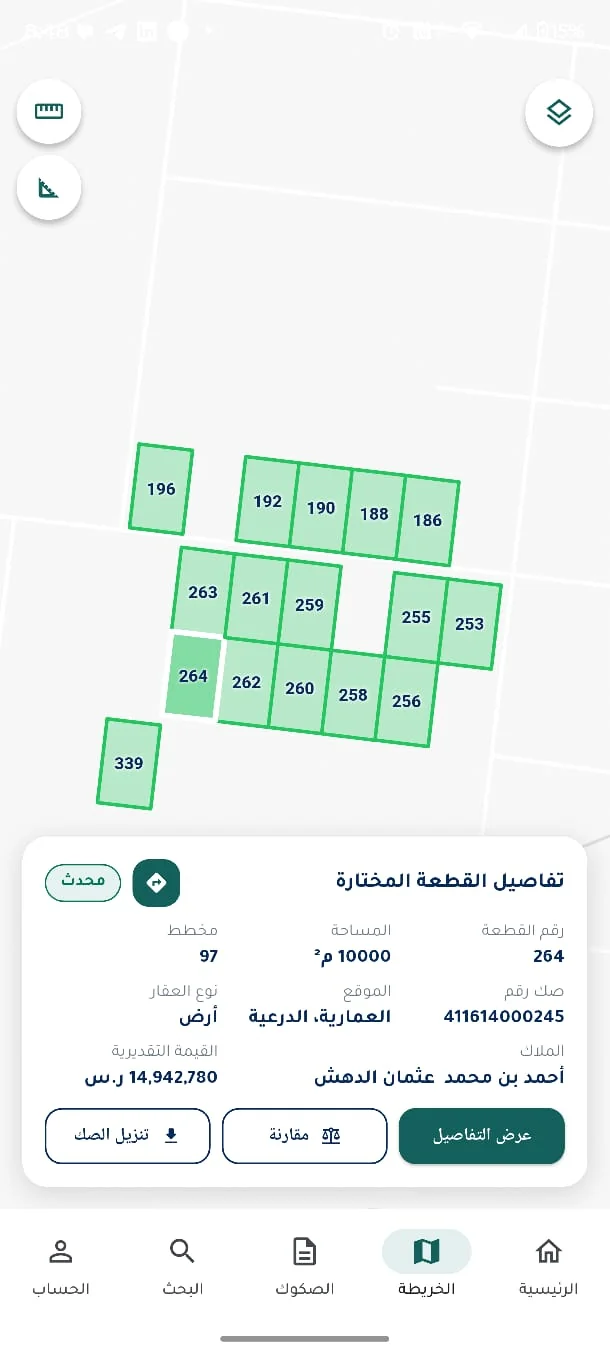
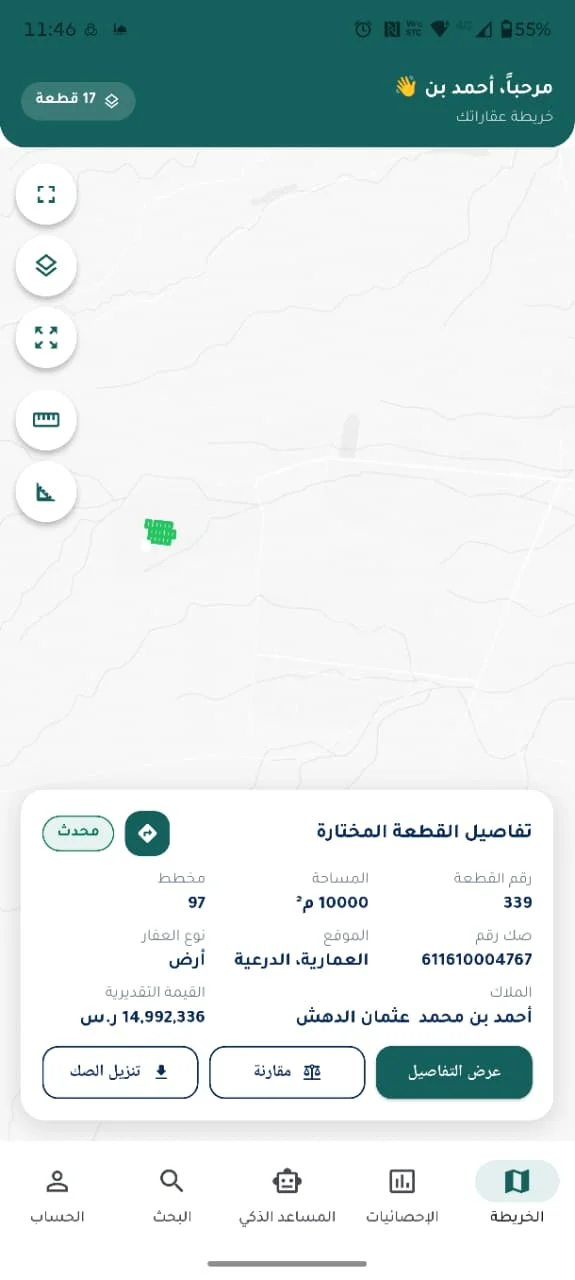
enhance land page

diff --git a/lang/ar/landing.php b/lang/ar/landing.php
@@ -129,35 +129,45 @@ return [
     'tour_goto' => 'انتقل إلى :title',
     'tour_of' => ':current من :total',
 
-    'tour_home_title' => 'محفظتك كلها في شاشة واحدة',
-    'tour_home_text' => 'القيمة التقديرية لأصولك، عدد عقاراتك ومساحتها الإجمالية، '
-        .'والصكوك المحدّثة والقديمة — محسوبة لحظياً من بياناتك، لا من جدول تحدّثه بنفسك.',
-    'tour_home_alt' => 'الشاشة الرئيسية في التطبيق تعرض القيمة التقديرية للأصول ومؤشرات المحفظة',
+    'tour_map_title' => 'أصولك كلها على خريطة واحدة',
+    'tour_map_text' => 'قطعك بأرقامها على الخريطة، واضغط أي قطعة ليظهر ملخّصها: المساحة، '
+        .'المخطط، رقم الصك والقيمة التقديرية — مع تنزيل الصك أو المقارنة من البطاقة نفسها.',
+    'tour_map_alt' => 'خريطة عقارات المالك مع بطاقة ملخّص القطعة المختارة',
 
-    'tour_parcels_title' => 'كل عقار بملفه الكامل',
-    'tour_parcels_text' => 'ابحث برقم القطعة أو الصك أو المخطط، وصفِّ القائمة حسب حالة الصك: '
-        .'محدّث، قديم، أو بدون صك.',
-    'tour_parcels_alt' => 'قائمة العقارات في التطبيق مع البحث وعوامل التصفية',
+    'tour_stats_title' => 'محفظتك بالأرقام في شاشة واحدة',
+    'tour_stats_text' => 'القيمة التقديرية لأصولك ومتوسط سعر المتر، وعدد العقارات والمساحة '
+        .'الإجمالية والصكوك المحدّثة والقديمة — محسوبة لحظياً من بياناتك، لا من جدول تحدّثه بنفسك.',
+    'tour_stats_alt' => 'صفحة الإحصائيات تعرض القيمة التقديرية للأصول وبطاقات مؤشرات المحفظة',
 
-    'tour_deeds_title' => 'سجل صكوكك كاملاً',
-    'tour_deeds_text' => 'كل صك برقمه وتاريخ إصداره ومساحته ونوعه، وتفتح صورة الصك '
-        .'أو تنتقل إلى قطعته على الخريطة بضغطة.',
-    'tour_deeds_alt' => 'سجل الصكوك في التطبيق مع بطاقات الصكوك وأزرار عرض الصك والقطعة',
+    'tour_charts_title' => 'توزيع أصولك حسب المدينة والحي',
+    'tour_charts_text' => 'رسوم توزيع القطع على المدن والأحياء والمناطق، وأربعة اختصارات '
+        .'للوصول السريع: العقارات، مقارنة القطع، الطلبات، والصكوك.',
+    'tour_charts_alt' => 'رسوم توزيع القطع حسب المدن والأحياء والمناطق مع أزرار الوصول السريع',
 
     'tour_detail_title' => 'القطعة بحدودها وأبعادها',
-    'tour_detail_text' => 'حدود القطعة على الخريطة بأطوال أضلاعها، وبياناتها كاملة: المساحة، '
-        .'القيمة التقديرية، رقم المخطط، المعرف الجغرافي، ونوع التعامل.',
-    'tour_detail_alt' => 'شاشة تفاصيل القطعة تعرض حدودها وأبعادها وبياناتها',
+    'tour_detail_text' => 'شكل القطعة بأطوال أضلاعها، وسجلها كاملاً: المساحة، القيمة التقديرية '
+        .'وسعر المتر، رقم المخطط، المعرف الجغرافي، ونوع التعامل وطريقة التحديد.',
+    'tour_detail_alt' => 'شاشة تفاصيل القطعة تعرض شكلها وأبعادها وبياناتها',
 
-    'tour_owners_title' => 'الملّاك وطلبات التعديل',
-    'tour_owners_text' => 'أسماء ملّاك القطعة وصكوكها المرتبطة، وزرّ يرفع طلب تعديل '
-        .'يمرّ بمسار اعتماد ويُسجَّل في سجل التدقيق.',
-    'tour_owners_alt' => 'شاشة القطعة تعرض الملّاك والصكوك المرتبطة وزر طلب التعديل',
+    'tour_survey_title' => 'الحدود والقرار المساحي والمستندات',
+    'tour_survey_text' => 'حدود القطعة الأربعة بأطوالها وجيرانها، والقرار المساحي بمصدره '
+        .'وتاريخه، والصك مرفقاً بصيغة PDF جاهزاً للتنزيل.',
+    'tour_survey_alt' => 'شاشة القطعة تعرض الحدود والأبعاد والقرار المساحي والمستندات',
 
-    'tour_map_title' => 'أصولك على خريطة واحدة',
-    'tour_map_text' => 'قطعك كلها على الخريطة بأرقامها. اختر أي قطعة لترى ملخّصها، '
-        .'وقِس المسافات والمساحات، ونزّل الصك من مكانه.',
-    'tour_map_alt' => 'الخريطة في التطبيق تعرض القطع بأرقامها مع ملخّص القطعة المختارة',
+    'tour_search_title' => 'ابحث كما تحفظ أرضك',
+    'tour_search_text' => 'أربعة أوضاع للبحث في ممتلكاتك: رقم الصك، رقم القطعة، المخطط، '
+        .'أو اسم المالك — والنتيجة تفتح على القطعة مباشرة.',
+    'tour_search_alt' => 'شاشة البحث في التطبيق بأوضاع رقم الصك ورقم القطعة والمخطط واسم المالك',
+
+    'tour_assistant_title' => 'المساعد العقاري الذكي — قريباً',
+    'tour_assistant_text' => 'سؤال عن أي قطعة بلغتك العادية، وملخّص فوري لمحفظتك، '
+        .'وتنبيهات على الصكوك التي تحتاج انتباهك.',
+    'tour_assistant_alt' => 'شاشة المساعد العقاري الذكي في التطبيق مع إشارة قريباً',
+
+    'tour_account_title' => 'حسابك وإعداداتك',
+    'tour_account_text' => 'ملف المالك بأرقامه، وتبديل اللغة بين العربية والإنجليزية، '
+        .'والمساعدة والدعم وسياسة الخصوصية وشروط الاستخدام في مكان واحد.',
+    'tour_account_alt' => 'شاشة الحساب تعرض ملف المالك وإحصاءاته وإعدادات التطبيق',
 
     // ── Trust ───────────────────────────────────────────────────
     'trust_eyebrow' => 'الأمان والحوكمة',

diff --git a/lang/en/landing.php b/lang/en/landing.php
@@ -133,36 +133,48 @@ return [
     'tour_goto' => 'Go to :title',
     'tour_of' => ':current of :total',
 
-    'tour_home_title' => 'The whole portfolio on one screen',
-    'tour_home_text' => 'Estimated value of the assets, how many properties and how much land, '
-        .'which deeds are current and which have gone stale — worked out from the data itself, '
-        .'not from a sheet someone keeps up by hand.',
-    'tour_home_alt' => 'The app home screen showing estimated asset value and portfolio figures',
+    'tour_map_title' => 'Every asset on a single map',
+    'tour_map_text' => 'Parcels on the map by number. Tap one and its summary opens: area, plan, '
+        .'deed number and estimated value — with the deed download and the comparison on the '
+        .'same card.',
+    'tour_map_alt' => 'The owner map in the app with the summary card of the selected parcel',
 
-    'tour_parcels_title' => 'Every property, with its full file',
-    'tour_parcels_text' => 'Search by parcel, deed or plan number, and filter the list by deed '
-        .'status: current, stale, or no deed at all.',
-    'tour_parcels_alt' => 'The property list in the app with search and status filters',
+    'tour_stats_title' => 'The portfolio in figures, on one screen',
+    'tour_stats_text' => 'Estimated value of the assets and the average price per square metre, '
+        .'how many properties and how much land, which deeds are current and which have gone '
+        .'stale — worked out from the data itself, not from a sheet someone keeps by hand.',
+    'tour_stats_alt' => 'The statistics screen showing estimated asset value and portfolio cards',
 
-    'tour_deeds_title' => 'The complete deed register',
-    'tour_deeds_text' => 'Each deed with its number, issue date, area and type — open the scanned '
-        .'deed or jump to its parcel on the map in one tap.',
-    'tour_deeds_alt' => 'The deed register in the app, with cards and buttons to view deed or parcel',
+    'tour_charts_title' => 'Assets broken down by city and district',
+    'tour_charts_text' => 'Parcels distributed across cities, districts and regions, with four '
+        .'shortcuts to hand: properties, parcel comparison, requests and deeds.',
+    'tour_charts_alt' => 'Charts of parcels by city, district and region with the quick access row',
 
     'tour_detail_title' => 'The parcel, with its boundary and dimensions',
-    'tour_detail_text' => 'The boundary drawn on the map with edge lengths, and the full record: '
-        .'area, estimated value, plan number, geographic identifier and transaction type.',
-    'tour_detail_alt' => 'The parcel detail screen showing its boundary, dimensions and record',
+    'tour_detail_text' => 'The parcel drawn with the length of every edge, and the full record: '
+        .'area, estimated value and price per metre, plan number, geographic identifier, '
+        .'transaction type and how the boundary was fixed.',
+    'tour_detail_alt' => 'The parcel detail screen showing its shape, dimensions and record',
 
-    'tour_owners_title' => 'Owners and change requests',
-    'tour_owners_text' => 'The parcel’s owners and the deeds attached to it, and a button that '
-        .'files a change request — one that follows an approval path and lands in the audit trail.',
-    'tour_owners_alt' => 'The parcel screen showing owners, attached deeds and the change request button',
+    'tour_survey_title' => 'Boundaries, survey decision and documents',
+    'tour_survey_text' => 'All four boundaries with their lengths and neighbours, the survey '
+        .'decision with its source and date, and the deed attached as a PDF ready to download.',
+    'tour_survey_alt' => 'The parcel screen showing boundaries, survey decision and documents',
 
-    'tour_map_title' => 'Your assets on a single map',
-    'tour_map_text' => 'Every parcel on the map by number. Tap one for its summary, measure '
-        .'distances and areas, and download the deed from where it sits.',
-    'tour_map_alt' => 'The app map showing numbered parcels and a summary of the selected one',
+    'tour_search_title' => 'Search the way you know your land',
+    'tour_search_text' => 'Four ways to search your holdings: deed number, parcel number, plan, '
+        .'or owner name — and the result opens straight onto the parcel.',
+    'tour_search_alt' => 'The search screen with deed number, parcel number, plan and owner tabs',
+
+    'tour_assistant_title' => 'The smart property assistant — coming soon',
+    'tour_assistant_text' => 'Ask about any parcel in plain language, get an instant read on the '
+        .'portfolio, and be told which deeds need attention.',
+    'tour_assistant_alt' => 'The smart property assistant screen in the app, marked coming soon',
+
+    'tour_account_title' => 'The account and its settings',
+    'tour_account_text' => 'The owner profile with its figures, the switch between Arabic and '
+        .'English, and help, privacy policy and terms of use in one place.',
+    'tour_account_alt' => 'The account screen showing the owner profile, figures and app settings',
 
     // ── Trust ───────────────────────────────────────────────────
     'trust_eyebrow' => 'Security and governance',

diff --git a/resources/views/landing/sections/app.blade.php b/resources/views/landing/sections/app.blade.php
@@ -9,12 +9,14 @@
      * compression artefacts at seven times the weight.
      */
     $slides = [
-        ['image' => 'app-home.webp',          'key' => 'home'],
-        ['image' => 'app-parcels.webp',       'key' => 'parcels'],
-        ['image' => 'app-deeds.webp',         'key' => 'deeds'],
-        ['image' => 'app-parcel-detail.webp', 'key' => 'detail'],
-        ['image' => 'app-parcel-owners.webp', 'key' => 'owners'],
         ['image' => 'app-map.webp',           'key' => 'map'],
+        ['image' => 'app-stats.webp',         'key' => 'stats'],
+        ['image' => 'app-charts.webp',        'key' => 'charts'],
+        ['image' => 'app-parcel-detail.webp', 'key' => 'detail'],
+        ['image' => 'app-parcel-survey.webp', 'key' => 'survey'],
+        ['image' => 'app-search.webp',        'key' => 'search'],
+        ['image' => 'app-assistant.webp',     'key' => 'assistant'],
+        ['image' => 'app-account.webp',       'key' => 'account'],
     ];
 @endphp
 
@@ -53,7 +55,7 @@
                         <div class="phone">
                             <img src="{{ asset('images/app/'.$slide['image']) }}"
                                  alt="{{ __('landing.tour_'.$slide['key'].'_alt') }}"
-                                 width="576" height="1280" loading="lazy" decoding="async">
+                                 width="575" height="1280" loading="lazy" decoding="async">
                         </div>
                     </figure>
                 @endforeach

diff --git a/resources/views/landing/index.blade.php b/resources/views/landing/index.blade.php
@@ -14,7 +14,10 @@
     {{-- @include('landing.sections.pricing') --}}
     @include('landing.sections.app')
     @include('landing.sections.trust')
-    @include('landing.sections.stack')
+    {{-- The survey-tools strip ("works with the tools you already use") is
+         hidden for now. The section and its strings stay in place: uncomment
+         this line to restore it. --}}
+    {{-- @include('landing.sections.stack') --}}
 
     {{-- Testimonials are held back until we have quotes from real customers to
          run. The section, its component and its strings are all still in place:

diff --git a/public/images/app/README.md b/public/images/app/README.md
@@ -1,23 +1,25 @@
 # Owner app screenshots
 
 The tour section on the landing page (`resources/views/landing/sections/app.blade.php`)
-reads these six files:
+reads these eight files:
 
-| file                     | screen                                        |
-|--------------------------|-----------------------------------------------|
-| `app-home.webp`          | الرئيسية — القيمة التقديرية ومؤشرات المحفظة   |
-| `app-parcels.webp`       | العقارات — القائمة مع البحث والتصفية          |
-| `app-deeds.webp`         | سجل الصكوك                                    |
-| `app-parcel-detail.webp` | تفاصيل القطعة 256 — الحدود والأبعاد           |
-| `app-parcel-owners.webp` | القطعة 262 — الملّاك والصكوك وطلب التعديل     |
-| `app-map.webp`           | الخريطة — القطعة 264 وأدوات القياس            |
+| file                     | screen                                              |
+|--------------------------|-----------------------------------------------------|
+| `app-map.webp`           | الخريطة — الهيدر الترحيبي وبطاقة القطعة المختارة    |
+| `app-stats.webp`         | الإحصائيات — القيمة التقديرية ومؤشرات المحفظة       |
+| `app-charts.webp`        | الإحصائيات — الوصول السريع وتوزيع القطع             |
+| `app-parcel-detail.webp` | تفاصيل القطعة 339 — الشكل والأبعاد وبيانات القطعة   |
+| `app-parcel-survey.webp` | القطعة 339 — الحدود والقرار المساحي والمستندات      |
+| `app-search.webp`        | البحث — بالصك أو القطعة أو المخطط أو اسم المالك     |
+| `app-assistant.webp`     | المساعد الذكي — شاشة قريباً                          |
+| `app-account.webp`       | الحساب — ملف المالك وإعدادات التطبيق                |
 
-Portrait, 9:20. They render at about 250 CSS px wide, so the native 575–610 px
-of a phone screenshot is already ample — do not upscale.
+Portrait, 9:20 (575 × 1280 here). They render at about 250 CSS px wide, so a
+native phone screenshot is already ample — do not upscale.
 
 WebP, quality 85. The sources are phone screenshots that have been through
 JPEG once already; PNG re-encodes those artefacts faithfully at roughly seven
-times the weight (1.9 MB for the set, against 212 kB here).
+times the weight (216 kB for this set).
 
 Changing the order or adding a screen means editing the `$slides` array in the
 section, plus the matching `tour_*` strings in `lang/{ar,en}/landing.php`.
